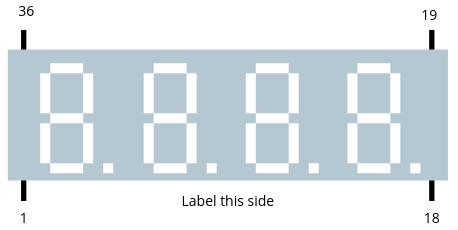
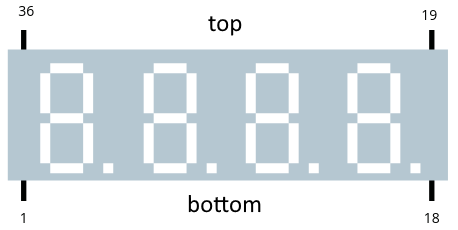
Overhaul E40561 resources page

Changed region(s): [[0.3974, 0.8522, 0.6114, 0.9435], [0.4585, 0.0609, 0.5502, 0.1522]]

diff --git a/resources/e40561-4-digit-7seg-led.html b/resources/e40561-4-digit-7seg-led.html
@@ -1,29 +1,26 @@
 ---
 layout: default
 ---
-<h1>Using the E40561-G-UR3-0-W 4 Digit 7 Segment LED</h1>
+<h1>Using the E40561 4 digit 7 segment common anode LED display</h1>
 
-<p>This page contains information I've gathered to aid in using this 4 digit 7 segment common anode LED display (and
-    other related common anode displays). The information falls into two main sections:</p>
+<p>This page contains information that has been gathered together to aid in using the <em>common anode</em> version of the E40561 display. The information is grouped into two main sections:</p>
 
 <ol>
-    <li>Information about the <a href="#pin-out">pin-out</a> of the display.</li>
-    <li>A <a href="#circuit">circuit &amp; code</a> for multiplexing the display using a microcontroller - in this case
-        an Arduino Nano.</li>
+    <li><a href="#pin-out"><strong>Pin-out</strong></a>: Information about the organisation of the display&rsquo;s 36 pins.</li>
+    <li><a href="#circuit"><strong>Circuit &amp; Code</strong></a>: A circuit and associated C code that can be used to multiplex the display using a microcontroller.</li>
 </ol>
+
+<p class="alert alert-info">The display I used to test this information was the E40561-G-UR3-0-W. The information should also apply to other common anode dislays in this series.</p>
 
 <section id="pin-out">
 
     <h2>Pin-out</h2>
 
-    <p>Information on the pinout of the E40561 is relatively hard to find, and a little inpenetrable when you do. This page
-        summarise the information that I have gleaned from several sources. I&rsquo;ve tested some the information on a
-        couple of examples of these displays.</p>
+    <p>Information on the pinout of the E40561 is relatively hard to find, and a little inpenetrable when you do find it. This section summarises information that I have gleaned from several sources. It has been tested on two examples of the E40561-G-UR3-0-W display.</p>
 
     <h3>Identifying the parts of the display</h3>
 
-    <p>The image below shows the 4 digits &ndash; <em>1 to 4</em> &ndash; and the segments of each digit labelled
-        <em>A..G</em> and <em>dp</em> (decimal point).</p>
+    <p>The image below shows the 4 digits and the segments of each digit labelled <em>A..G</em> and <em>dp</em> (decimal point).</p>
 
     <p><img class="img-fluid mx-auto d-block" src="/assets/img/resources/e40561-led-segments_633x275.png" width="633"
             height="275" alt="Labelling of LED segments"></p>
@@ -39,18 +36,20 @@ layout: default
 
     <h3>The display pinout</h3>
 
-    <p>The display has 36 pins. Pins 1 to 18 are adjacent to the side that is labelled with the model number (i.e. the
-        side &ldquo;below&rdquo; the digits) with pin 1 on the left and pin 18 on the right. Pins 19 to 36 are adjacent
-        to the side &ldquo;above&rdquo; the digits with pin 19 on the right and pin 36 on the left, above pin 1. The
-        figure below should clarify:</p>
+    <p>The display has 36 pins. We&rsquo;ll treat the <em>bottom</em> of the display to be the side adjacent to the decimal point segments and the <em>top</em> to be the opposite side.</p>
+
+    <p>Pins 1 to 18 are arranged in ascending order along the bottom edge, from left to right, so that pin 1 is on the left and pin 18 is on the right. Pins 19 to 36 are arranged in ascending order, from <em>right to left</em>, along the top edge, with pin 19 on the right (above pin 18) and pin 36 on the left (above pin 1). The figure below should clarify:</p>
 
     <p><img class="img-fluid mx-auto d-block" src="/assets/img/resources/e40561-pinout_458x230.png" width="458"
             height="230" alt="Pinout illustration"></p>
 
+    <p class="alert alert-info">On the displays I have, the part number is printed on the bottom side of the display.</p>
+
     <h3>Map of LED digits &amp; segments to pins</h3>
 
-    <p>This section describes which pins control each segment of each digit. Since the display is common anode, there is
-        only one anode pin per digit. These are as follows:</p>
+    <p>This section describes which pins control each segment of each digit.</p>
+
+    <p>Since the display is common anode, there is only one anode pin per digit. These are as follows:</p>
 
     <table class="table table-responsive">
         <thead class="thead-light text-center">
@@ -73,7 +72,7 @@ layout: default
         </tbody>
     </table>
 
-    <p>There is a cathode, and a related pin, for every LED segment. These are as follows:</p>
+    <p>There is a cathode pin for every LED segment. These are as follows:</p>
 
     <table class="table table-responsive">
         <thead class="thead-light text-center">
@@ -150,7 +149,7 @@ layout: default
 
     <h3>Map of pins to LED digits &amp; segments</h3>
 
-    <p>This section details the function of each pin. Details are given in the following table:</p>
+    <p>The following table details the function of each pin:</p>
 
     <table class="table table-responsive">
         <thead class="thead-light text-center">
@@ -350,20 +349,75 @@ layout: default
 
     <h2>Circuit &amp; Code</h2>
 
-    <p>Of course, with 36 pins, it's unrealistic to expect to connect the display to a microcontroller directly. Some kind of multiplexing will be required.</p>
-    
-    <p>In this section I present a sample circuit and associated Arduino sketch that performs such multiplexing.</p>
-    
+    <p>With 36 pins it is unrealistic to expect to connect the display to a microcontroller directly. Some kind of multiplexing will be required.</p>
+
+    <p>In this section I present a sample circuit and associated source code that performs such multiplexing.</p>
+
     <h3>Circuit Design</h3>
 
-    <p>I've chosen to multiplex the cathode side of the display. This means that we common together the pins controlling the same segment for each digit. Using the information in the tables above, the following pin connections can be made:</p>
+    <p>So that we can multiplex each digit, we must common together the cathodes of the same segment of each digit. For example, segments 1A, 2A, 3A &amp; 4A are commoned. Using the information in the tables above, the following pin connections need to be made:</p>
 
     <p><img class="img-fluid mx-auto d-block" src="/assets/img/resources/e40561-common-segment-wiring.png" width="404"
         height="303" alt="E40561 Common segment wiring diagram"></p>
 
-    <p>The digit pins 1 to 4, being anodes, require supplying with 5V DC. To avoid placing too much load on the microcontroller, these pins should be fed via PNP transistors coupled to a suitable 5V supply. The transistors are then switched by coupling digital output pins of the microcontroller to the base of the transistors via suitable resistors.</p>
+    <p>We multiplex the display by supplying 5V to each digit&rsquo;s anode in sequence. For each digit we must connected the required segment cathodes to ground (0V).</p>
 
-    <p>The segment pins A to G and dp, being cathodes, must be connected to 0V in order to be lit. This can be done by connecting each commoned segment to a different output pin of a 74HC595 shift register, via a current limiting resistor. The shift register is then controlled by three digital output pins of the microcontroller.</p>
+    <p>The microcontroller will be used to perform the above sequencing. We will use 4 digital output pins to switch on and off the digits in sequence. The pins should&rsquo;t be connected directly to the display because the current required may be more than microcontroller can provide. So, we connect each microcontroller pin to the base of a PNP transistor, via a resistor. The emitter of the transistor is connected to a suitably rated 5V supply and the collector is connected to the required pin on the display.</p>
+
+    <p class="alert alert-info">Note that, because we are using PNP transistors, we must set the microcontroller pin to LOW to turn on the transistor, and hence the digit. Conversely setting the pin HIGH turns off the digit.</p>
+
+    <p>Now, we <em>could</em> connect each commoned set of cathode pins to one of 8 digital input pins on the microcontroller and turn the segments on and off by setting the state of the pins as required. But we will save more pins by using a shift register and connecting the segment pins to its output.</p>
+
+    <p>The 8 commoned segments map nicely onto the 8 output pins of the commonly used 74HC595 shift register, so we will use that. The commoned segments will be connected to the 74HC595&rsquo;s pins as follows:</p>
+
+    <table class="table table-responsive">
+        <thead class="thead-light text-center">
+            <tr>
+                <th scope="col" class="align-middle">Commoned segment pin</th>
+                <th scope="col" class="align-middle">74HC595 pin</th>
+            </tr>
+        </thead>
+        <tbody class="text-center">
+            <tr>
+                <td>dp</td>
+                <td>Q0</td>
+            </tr>
+            <tr>
+                <td>A</td>
+                <td>Q1</td>
+            </tr>
+            <tr>
+                <td>B</td>
+                <td>Q2</td>
+            </tr>
+            <tr>
+                <td>C</td>
+                <td>Q3</td>
+            </tr>
+            <tr>
+                <td>D</td>
+                <td>Q4</td>
+            </tr>
+            <tr>
+                <td>E</td>
+                <td>Q5</td>
+            </tr>
+            <tr>
+                <td>F</td>
+                <td>Q6</td>
+            </tr>
+            <tr>
+                <td>G</td>
+                <td>Q7</td>
+            </tr>
+        </tbody>
+    </table>
+
+    <p>Because we are dealing with LEDs, current limiting resistors need to be placed between each display pin and the shift register.</p>
+
+    <p>3 microcontroller output pins will be connected to the shift register&rsquo;s DS, ST and SH pins.</p>
+
+    <p class="alert alert-info">Because we switch on segments by grounding them, zero bits in the byte sent to the shift register will switch on the related segments and one bits will switch related segments off. For example to switch on segment C (Q3) and the decimal point (Q0), we send <code>0b11110110</code> to the shift register.</p>
 
     <p>The following circuit implements this design:</p>
 
@@ -371,20 +425,20 @@ layout: default
         height="920" alt="E40561 multiplex circuit"></p>
 
     <p>As can bee seen, the chosen microcontroller is an Arduino Nano. This is powered from the 5V power supply via its 5V pin.</p>
-    
-    <p class="alert alert-warning">If you choose to power the Nano via its USB port then disconnect its 5V pin from the main power supply but ensure that the Nano's ground remains connected to the power supply's ground.</p>
+
+    <p class="alert alert-warning">If you choose to power the Nano via its USB port then disconnect its 5V pin from the main power supply, but ensure that the Nano&rsquo;s ground remains connected to the power supply&rsquo;s ground.</p>
 
     <h3>Code</h3>
 
     <p>The code is used to:</p>
 
     <ol>
-        <li>Define a set of digit &amp; other characters to be displayed.</li>
-        <li>Record the 4 digits currently being displayed.</li>
+        <li>Define a set of characters to be displayed.</li>
+        <li>Keep track of the 4 digits currently being displayed.</li>
         <li>Perform the multiplexing.</li>
     </ol>
 
-    <p>Here's the code:</p>
+    <p>Here&rsquo;s the code:</p>
 
     <pre class="pre-scrollable "><code class="language-c">// Pins used to control shift register
 #define LATCH_PIN 8
@@ -408,6 +462,7 @@ byte digit = 0;
 // NOTE: Because this is a common anode display, we must connect the segment
 //       cathodes to ground to illuminate them so we specify 1 (logic high) to
 //       disconnect the segment from ground and 0 (low) to connect it to ground
+#define SEGMENT_DP  0b11111110
 #define SEGMENT_A   0b11111101
 #define SEGMENT_B   0b11111011
 #define SEGMENT_C   0b11110111
@@ -415,7 +470,6 @@ byte digit = 0;
 #define SEGMENT_E   0b11011111
 #define SEGMENT_F   0b10111111
 #define SEGMENT_G   0b01111111
-#define SEGMENT_DP  0b11111110
 #define SEGMENT_OFF 0b11111111
 
 // ledChars[] specifies the segments to illuminate for each digit.
@@ -456,11 +510,11 @@ const byte ledChars[] = {
 
 // digits[] stores the four digits to be display:
 // digits[n] stores digit n+1, e.g. digits[2] stores digit 3
-// initialised so that the outer digits are off  and the middle digits are hyphens
-byte digits[DIGIT_COUNT] = {SEGMENT_OFF, SEGMENT_G, SEGMENT_G, SEGMENT_OFF};
+// initialised so that all digits are off
+byte digits[DIGIT_COUNT] = {SEGMENT_OFF, SEGMENT_OFF, SEGMENT_OFF, SEGMENT_OFF};
 
 // Number of patterns of digits to be displayed
-#define PATTERN_COUNT 4
+#define SEQUENCE_LENGTH 4
 
 void setup() {
     // Set up output pins for shift register
@@ -472,15 +526,13 @@ void setup() {
         pinMode(digitPins[i], OUTPUT);
         digitalWrite(digitPins[i], HIGH);
     }
-    // Intialise display: all off
-    updateDisplay();
 }
 
 void loop() {
     // In the loop we set up and display a sequence of digits for time delta ms then
-    // change to another digit sequence. After PATTERN_COUNT different sequences have
+    // change to another digit sequence. After SEQUENCE_LENGTH different sequences have
     // been displayed we start again
-    static long ticks = millis();
+    static long ticks;
     static long lastChange = 0;
     const long delta = 2000;
     static int index = 0;       // index of current pattern of digits
@@ -519,7 +571,7 @@ void loop() {
                 break;
         }
         lastChange = ticks;
-        index = (index + 1) % PATTERN_COUNT;
+        index = (index + 1) % SEQUENCE_LENGTH;
     }
     updateDisplay();
 }
@@ -549,26 +601,29 @@ void updateDisplay() {
     delay(6);
 }</code></pre>
 
-    <p>Here's an overview of what's going on:</p>
+    <p>Here&rsquo;s an overview of what&rsquo;s going on:</p>
 
     <ul>
-        <li class="my-2">We start by defining which pins of the Arduino Nano to use for controlling the shift register and the display's digits.</li>
-        <li class="my-2">Next we define bitmasks for the display segments A..G &amp; dp. These bitmasks relate to the output from the shift register, with the least significant bit controlling Q0 through to the most significant bit controlling Q7. The bitmasks are all ones except for a zeros to switch on the relevant segment.</li>
-        <li class="my-2">We now set up the <code>ledChars[]</code> array to store a bitmask for each of the characters we want to be able to display. <code>ledChars[0]</code> represents &quot;0&quot;, <code>ledChars[1]</code> represents &quot;1&quot; etc. <code>ledChars[10]</code> has all segments off. These character bitmasks are created by ANDing together the required segment bitmasks we defined above.</li>
+        <li class="my-2">We start by defining which pins of the Arduino Nano to use for controlling the shift register and the display&rsquo;s digits.</li>
+        <li class="my-2">Next we define bitmasks for the display segments A..G &amp; dp. These bitmasks relate to the output from the shift register, with the least significant bit controlling Q0 through to the most significant bit controlling Q7. The bitmasks are all ones except for a zero to switch on the required segment.</li>
+        <li class="my-2">We now set up the <code>ledChars</code> array to store a bitmask for each of the characters we want to be able to display. <code>ledChars[0]</code> represents &quot;0&quot;, <code>ledChars[1]</code> represents &quot;1&quot; etc. through to <code>ledChars[9]</code> representing &quot;9&quot;. <code>ledChars[10]</code> has all segments off. These character bitmasks are created by ANDing together the relevant segment bitmasks we defined above.</li>
         <li class="my-2">There are a couple of macros, <code>addDp()</code> and <code>removeDp()</code>, that can be used to switch on or off the decimal point for a given digit. For example <code>addDp(ledChars[3])</code> returns the bitmask need to display digit &quot;3&quot; with the decimal point illuminated.</li>
-        <li class="my-2">We set up the <code>digits[]</code> array to store the bitmask of the characters to be displayed in each of the four digits. <code>digits[0]</code> stores digit 1 and so on. <code>digits[]</code> is intialised to display &quot;&nbsp;--&nbsp;&quot;, i.e. space, dash, dash, space.</li>
-        <li class="my-2"><code>PATTERN_COUNT</code> records the number of different patterns of digits to display in the main loop sequence (see below).</li>
-        <li class="my-2">In <code>setup()</code> we simply set all pins as output pins and ensure all digits are off. Digits are turned off by setting them <code>HIGH</code>. Finally we call <code>updateDisplay()</code> to intialise the digits to display &quot;&nbsp;--&nbsp;&quot;.</li>
-        <li class="my-2">In the main loop we display four different patterns of digits in turn, changing patterns every 2 seconds. We call <code>updateDisplay()</code> every time <code>loop()</code> is called.</li>
-        <li class="my-2"><code>shiftOutByte()</code> simply writes the given byte value to the shift register. A digit bitmask is always passed to this function.</li>
+        <li class="my-2">We set up the <code>digits</code> array to store the bitmask of the characters to be displayed in each of the four digits. <code>digits[0]</code> stores digit 1 and so on. <code>digits</code> is intialised so that all digits are off.</li>
+        <li class="my-2"><code>SEQUENCE_LENGTH</code> stores the number of different sets of digits to display in the main loop sequence (see below).</li>
+        <li class="my-2">In <code>setup()</code> we simply set all the Nano&rsquo;s pins we&rsquo;re using as output pins and ensure all digits are off. Recall that digits are turned off by setting the associated pins <code>HIGH</code>.</li>
+        <li class="my-2">In the main loop we display a sequence of four different sets of digits in turn, changing sets every 2 seconds. The digit sets are <code>0123</code>, <code>4567</code>, <code>89</code> (digits 3 &amp; 4 off) and <code>3.142</code> (digit 1&rsquo;s decimal point on). We call <code>updateDisplay()</code> every time <code>loop()</code> is called.</li>
+        <li class="my-2"><code>shiftOutByte()</code> simply writes the given byte value to the shift register. This function is called to display the segments of the currently illuminated digit.</li>
         <li class="my-2">Finally, <code>updateDisplay()</code> performs the actual multiplexing. Each time it is called the function displays one of the four digits, in sequence, turning the others off. There is a brief delay before returning. This is to give the LEDs time to switch on before being turned off again, ensuring they are bright enough. There is a balance to struck between making this delay long enough to achieve the desired brightness and short enough to avoid flicker. Adjust as necessary.</li>
     </ul>
 
     <h3>Breadboard test rig</h3>
 
-    <p>To make sure all this theory worked out in practise I built a breadboard test rig using the wiring diagram and code above.</p>
+    <p>To make sure all this theory worked out in practise I built a breadboard test rig using the wiring diagram and code above. Here&rsquo;s an annotated photo of the circuit:</p>
 
-    <p>The following short video shows the circuit with the Nano running the above code:</p>
+    <p><img class="img-fluid mx-auto d-block" src="/assets/img/resources/e40561-mux-breadboard_800x460.png" width="800"
+        height="460" alt="E40561 breadboard circuit annotated photo"></p>
+
+    <p>The following short video shows the circuit with the Nano running the display sequence:</p>
 
     <div class="text-center">
         <div>
@@ -577,7 +632,7 @@ void updateDisplay() {
         <p class="caption">Mulitplexing E40561 4 digit common anode LED display (simplified version)</p>
     </div>
 
-    <p>This second, longer, video shows the same circuit running enhanced code that defines additional characters and displays a longer sequence.</p>
+    <p>This second, longer, video shows the same circuit running enhanced code (not included here) that defines additional characters and displays a longer sequence.</p>
 
     <div class="text-center">
         <div>
@@ -586,6 +641,6 @@ void updateDisplay() {
         <p class="caption">Mulitplexing E40561 4 digit common anode LED display (enhanced version)</p>
     </div>
 
-    <p class="alert alert-warning"><strong>Note:</strong> the circuit shown in these videos is the same as that in the circuit diagram above except that 1k&ohm; current limiting resistors have been used with the LED segments instead of 470&ohm; resistors. This is a hang over from when I was testing the circuit and wanted to give the LED segments extra protection. I simply forgot to swap them for 470&ohm; resistors later!</p>
+    <p class="alert alert-warning"><strong>Note:</strong> the circuit used in these videos is the same as that in the circuit diagram above except that 1k&ohm; current limiting resistors have been used with the LED segments instead of 470&ohm; resistors. This is a hang over from when I was testing the circuit and wanted to give the LED segments extra protection. I simply forgot to swap them for 470&ohm; resistors later!</p>
 
 </section> <!-- /#circuit -->
